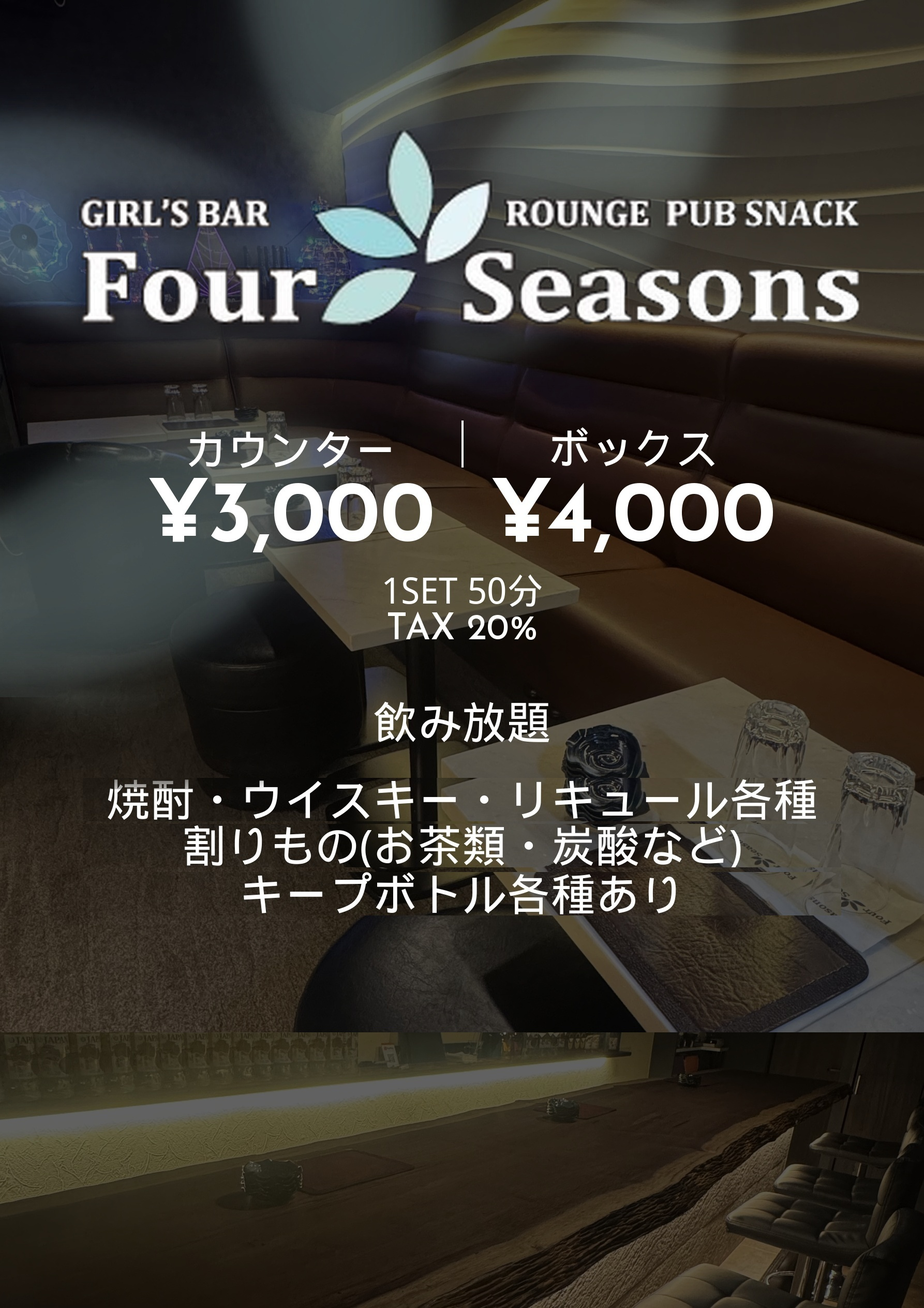
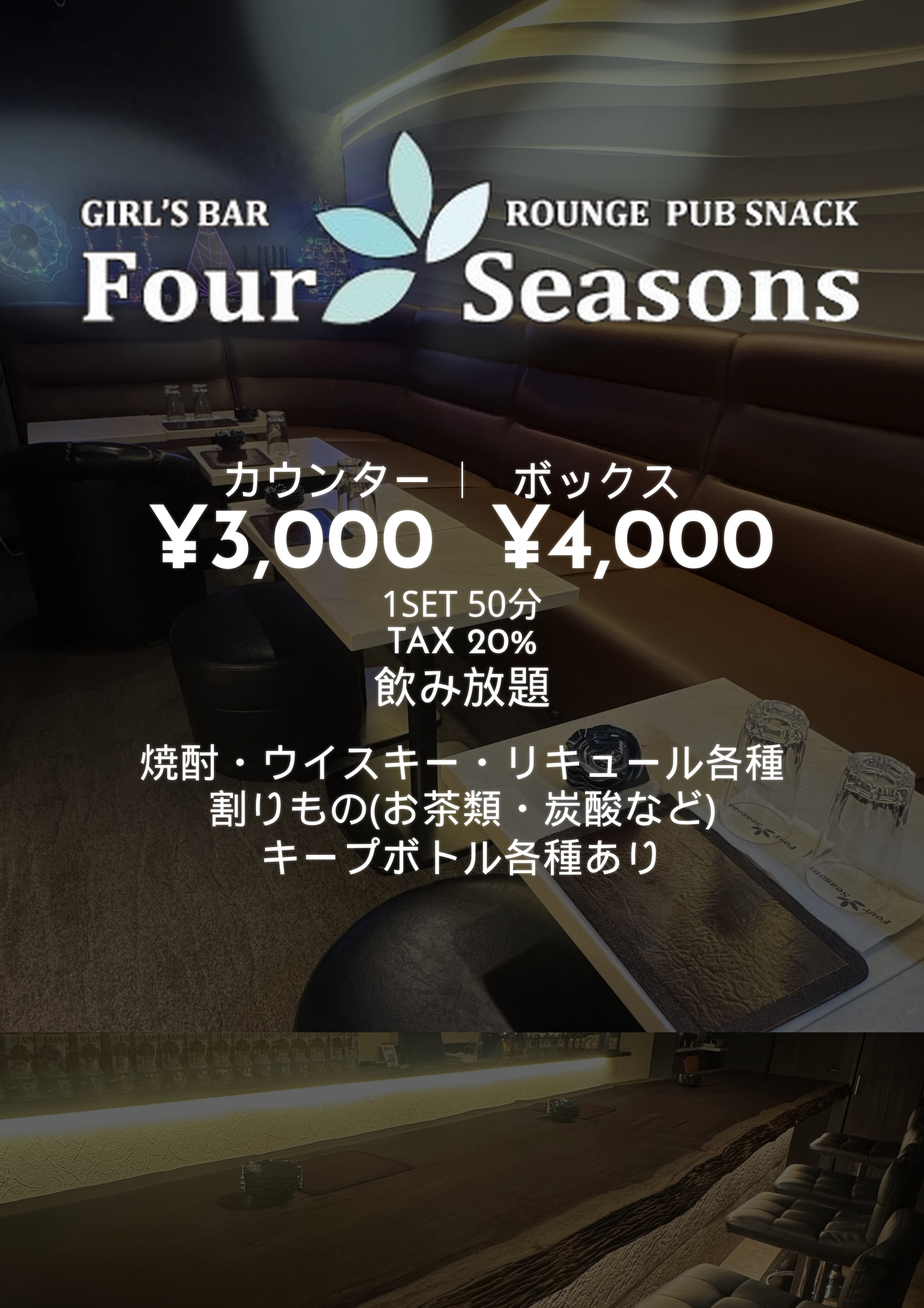
Draw body copy as real font text layers
Stop pasting baseline JPEG pixels for prices and drink lines.
Rebuild the A1 preview with Pillow text drawing (2x then downscale),
clip soft petal bleed below the logo band, and keep logo as PNG mark.

Changed region(s): [[0.0, 0.3124, 0.8931, 0.7185]]

diff --git a/Documents/フラット/FourSeasons_interior_A1/build_signage_preview.py b/Documents/フラット/FourSeasons_interior_A1/build_signage_preview.py
@@ -1,8 +1,8 @@
 #!/usr/bin/env python3
 """A1看板プレビュー生成（本番反映前の確認用）。
 
-本文テキストは直前の正常プレビューを保持し、ロゴ層だけ差し替える。
-花弁の大きさは変更しない（下方向ソフトグローの弱めのみ）。
+本文はフォントでテキスト描画（JPEGコピー／帯ずらしはしない）。
+ロゴ（花弁＋マーク）は透過PNGを配置する。
 """
 
 from __future__ import annotations
@@ -10,29 +10,43 @@ from __future__ import annotations
 from pathlib import Path
 
 import numpy as np
-from PIL import Image
+from PIL import Image, ImageDraw, ImageFilter, ImageFont
 
 ROOT = Path(__file__).resolve().parent
 ASSETS = ROOT / "assets"
 OUT = ROOT / "output"
+FONTS = ASSETS / "fonts"
 PREV = OUT / "preview"
 PREV.mkdir(parents=True, exist_ok=True)
+
+JOSE = str(FONTS / "JosefinSans[wght].ttf")
+JP = "/usr/share/fonts/truetype/wqy/wqy-microhei.ttc"
 
 PREVIEW = (1786, 2529)
 CHAT = (900, 1274)
 BLACK_OPACITY = 0.62
+
 BOX = {"x0": 0.0922, "y0": 0.1240, "x1": 0.9211, "y1": 0.2920}
 MAIN_SCALE_BOOST = 1.02
 NUDGE_UP = 0.035
-MAIN_W, MAIN_H = 364, 91
-# 本文開始位置（ここより下は前回プレビューのテキストをそのまま使う）
-TEXT_CUT_FRAC = 0.310
-BLEND_BAND = 40
+TEXT_NUDGE_DOWN = 0.035
+# 飲み放題の下に広めの空き（以前の指定をテキスト座標で再現）
+NOMI_GAP = 0.058
+LINE_GAP = 0.036
 
-# 花弁大きさ変更なし。下方向グローだけ弱める。
 SOURCE_LOGO = ASSETS / "logo_four_seasons_cyan_petals_source.png"
-# 本文を保持する基準プレビュー（テキストが正常な版）
-BASELINE_PREVIEW = PREV / "A1_signage_preview_baseline.jpg"
+LOGO_ASSET = ASSETS / "logo_four_seasons_cyan_petals.png"
+MAIN_W, MAIN_H = 364, 91
+
+
+def font(path: str, size: int, weight: int | None = None) -> ImageFont.FreeTypeFont:
+    f = ImageFont.truetype(path, size)
+    if weight is not None:
+        try:
+            f.set_variation_by_axes([weight])
+        except Exception:
+            pass
+    return f
 
 
 def cover_bottom(im: Image.Image, tw: int, th: int) -> Image.Image:
@@ -68,27 +82,28 @@ def apply_black(base: Image.Image, opacity: float) -> Image.Image:
     return Image.alpha_composite(rgba, ov)
 
 
-def load_logo_no_size_change() -> Image.Image:
-    """ソースロゴを読み、大きさはそのまま下方向グローだけ弱める。"""
-    src_path = SOURCE_LOGO if SOURCE_LOGO.exists() else ASSETS / "logo_four_seasons_cyan_petals.png"
+def load_logo() -> Image.Image:
+    """ソフト花弁つきロゴ。ソースがあれば下方向グローのみ弱めて使う（大きさ変更なし）。"""
+    src_path = SOURCE_LOGO if SOURCE_LOGO.exists() else LOGO_ASSET
     src = Image.open(src_path).convert("RGBA")
     arr = np.array(src).astype(np.float32)
     al = arr[:, :, 3]
     sh = src.size[1]
-    fade_start = int(sh * 0.55)
-    fade_end = int(sh * 0.92)
+    # ソフト花弁が本文帯へ食い込まないよう、下方向は完全にフェードアウト
+    fade_start = int(sh * 0.48)
+    fade_end = int(sh * 0.78)
     fade = np.ones(sh, np.float32)
     for y in range(sh):
         if y >= fade_end:
-            fade[y] = 0.20
+            fade[y] = 0.0
         elif y >= fade_start:
             t = (y - fade_start) / max(1, fade_end - fade_start)
-            fade[y] = 1.0 - 0.80 * t
-    protect = al >= 100
+            fade[y] = 1.0 - t
+    # メインの白文字・小花弁は保護、大きなソフト花弁だけフェード
+    protect = al >= 120
     arr[:, :, 3] = np.where(protect, al, al * fade[:, None])
     out = Image.fromarray(arr.astype(np.uint8), "RGBA")
-    assert out.size == src.size  # 大きさ変更なし
-    out.save(ASSETS / "logo_four_seasons_cyan_petals.png")
+    out.save(LOGO_ASSET)
     return out
 
 
@@ -128,50 +143,117 @@ def place_logo(canvas: Image.Image, logo: Image.Image, main_bbox: tuple[int, int
     sm = tuple(int(round(v * scale)) for v in main_bbox)
     lx = int(round(x0 + box_w / 2 - (sm[0] + sm[2]) / 2))
     ly = int(round(y0 + box_h / 2 - (sm[1] + sm[3]) / 2 - H * NUDGE_UP))
+    # 本文開始より下へ伸びるロゴ画素は捨てる（背景崩れ防止）
+    max_bottom = y1 + int(H * 0.02)
+    if ly + logo_r.size[1] > max_bottom:
+        keep_h = max(1, max_bottom - ly)
+        logo_r = logo_r.crop((0, 0, logo_r.size[0], keep_h))
     img.alpha_composite(logo_r, (lx, ly))
     return img
 
 
-def merge_keep_baseline_text(baseline: Image.Image, with_new_logo: Image.Image) -> Image.Image:
-    """上＝新ロゴ、下＝基準プレビューの本文（ピクセル一致）。"""
-    W, H = baseline.size
-    before = np.array(baseline.convert("RGB")).astype(np.float32)
-    new_rgb = np.array(with_new_logo.convert("RGB")).astype(np.float32)
-    text_cut = int(TEXT_CUT_FRAC * H)
-    out = before.copy()
-    out[:text_cut, :, :] = new_rgb[:text_cut, :, :]
-    band = BLEND_BAND
-    for i in range(band):
-        y = text_cut - band + i
-        if y < 0:
-            continue
-        t = i / band
-        out[y] = new_rgb[y] * (1.0 - t) + before[y] * t
-    return Image.fromarray(np.clip(out, 0, 255).astype(np.uint8), "RGB")
+def center_text(draw: ImageDraw.ImageDraw, xy: tuple[float, float], text: str, fnt, fill) -> None:
+    x, y = xy
+    bb = draw.textbbox((0, 0), text, font=fnt)
+    w, h = bb[2] - bb[0], bb[3] - bb[1]
+    draw.text((x - w / 2 - bb[0], y - h / 2 - bb[1]), text, font=fnt, fill=fill)
+
+
+def draw_text_layer(size: tuple[int, int], logo_bottom_y: int) -> Image.Image:
+    """本文だけを透明レイヤーにフォント描画する。"""
+    W, H = size
+    layer = Image.new("RGBA", (W, H), (0, 0, 0, 0))
+    draw = ImageDraw.Draw(layer)
+    white = (255, 255, 255, 255)
+    s = W / 1786.0
+
+    f_label = font(JP, int(82 * s))
+    f_price = font(JOSE, int(168 * s), 650)
+    f_mid = font(JOSE, int(70 * s), 500)
+    f_mid_jp = font(JP, int(70 * s))
+    f_nomi = font(JP, int(86 * s))
+    f_body = font(JP, int(78 * s))
+
+    cx = W / 2
+    y = logo_bottom_y + int(H * (0.04 + TEXT_NUDGE_DOWN))
+    # 基準プレビューの価格中心（canvas中央から約330px）に合わせる
+    col_label = int(260 * s)
+    col_price = int(330 * s)
+
+    center_text(draw, (cx - col_label, y), "カウンター", f_label, white)
+    center_text(draw, (cx + col_label, y), "ボックス", f_label, white)
+    div_h = int(70 * s)
+    draw.line([(cx, y - div_h // 2), (cx, y + div_h // 2)], fill=white, width=max(2, int(3 * s)))
+
+    y += int(120 * s)
+    center_text(draw, (cx - col_price, y), "¥3,000", f_price, white)
+    center_text(draw, (cx + col_price, y), "¥4,000", f_price, white)
+
+    y += int(120 * s)
+    center_text(draw, (cx, y), "1SET 50分", f_mid_jp, white)
+    y += int(70 * s)
+    center_text(draw, (cx, y), "TAX 20%", f_mid, white)
+
+    y += int(90 * s)
+    center_text(draw, (cx, y), "飲み放題", f_nomi, white)
+
+    y += int(H * NOMI_GAP)
+    for line in [
+        "焼酎・ウイスキー・リキュール各種",
+        "割りもの(お茶類・炭酸など)",
+        "キープボトル各種あり",
+    ]:
+        center_text(draw, (cx, y), line, f_body, white)
+        y += int(H * LINE_GAP)
+
+    return layer
+
+
+def soft_text_glow(text_layer: Image.Image) -> Image.Image:
+    """視認用の軽い外側グロー（テキスト自体はシャープなまま）。"""
+    alpha = text_layer.getchannel("A")
+    glow = alpha.filter(ImageFilter.GaussianBlur(5))
+    glow = glow.point(lambda p: min(255, int(p * 0.45)))
+    glow_rgba = Image.merge(
+        "RGBA",
+        (
+            Image.new("L", text_layer.size, 255),
+            Image.new("L", text_layer.size, 255),
+            Image.new("L", text_layer.size, 255),
+            glow,
+        ),
+    )
+    out = Image.new("RGBA", text_layer.size, (0, 0, 0, 0))
+    out = Image.alpha_composite(out, glow_rgba)
+    out = Image.alpha_composite(out, text_layer)
+    return out
+
+
+def render_body_text(size: tuple[int, int], logo_bottom_y: int) -> Image.Image:
+    """本文を2倍解像度で描画してから縮小し、シャープなテキストレイヤーにする。"""
+    W, H = size
+    hi = (W * 2, H * 2)
+    layer_hi = draw_text_layer(hi, logo_bottom_y * 2)
+    layer_hi = soft_text_glow(layer_hi)
+    return layer_hi.resize(size, Image.Resampling.LANCZOS)
 
 
 def main() -> None:
-    if not BASELINE_PREVIEW.exists():
-        raise SystemExit(
-            f"Missing baseline preview with good text: {BASELINE_PREVIEW}\n"
-            "Copy a known-good A1_signage_preview.jpg there first."
-        )
-    if not SOURCE_LOGO.exists():
-        raise SystemExit(f"Missing source logo (size-locked): {SOURCE_LOGO}")
-
-    logo = load_logo_no_size_change()
+    logo = load_logo()
     main_bbox = main_bbox_in_logo(logo)
     canvas = apply_black(build_base(PREVIEW), BLACK_OPACITY)
     with_logo = place_logo(canvas, logo, main_bbox)
-    baseline = Image.open(BASELINE_PREVIEW)
-    final = merge_keep_baseline_text(baseline, with_logo)
+
+    y1 = int(round(BOX["y1"] * PREVIEW[1]))
+    text_layer = render_body_text(PREVIEW, y1)
+    final = Image.alpha_composite(with_logo.convert("RGBA"), text_layer).convert("RGB")
 
     preview_path = PREV / "A1_signage_preview.jpg"
     chat_path = PREV / "A1_signage_preview_chat.jpg"
     final.save(preview_path, "JPEG", quality=95, optimize=True, dpi=(96, 96))
     final.resize(CHAT, Image.Resampling.LANCZOS).save(chat_path, "JPEG", quality=92, optimize=True)
     print(f"PREVIEW ONLY: {preview_path}")
-    print(f"logo size unchanged={logo.size} / body text from baseline / black={BLACK_OPACITY}")
+    print("body text = font layers @2x downsample (no baseline JPEG copy) / logo = PNG petals+mark")
 
 
 if __name__ == "__main__":
